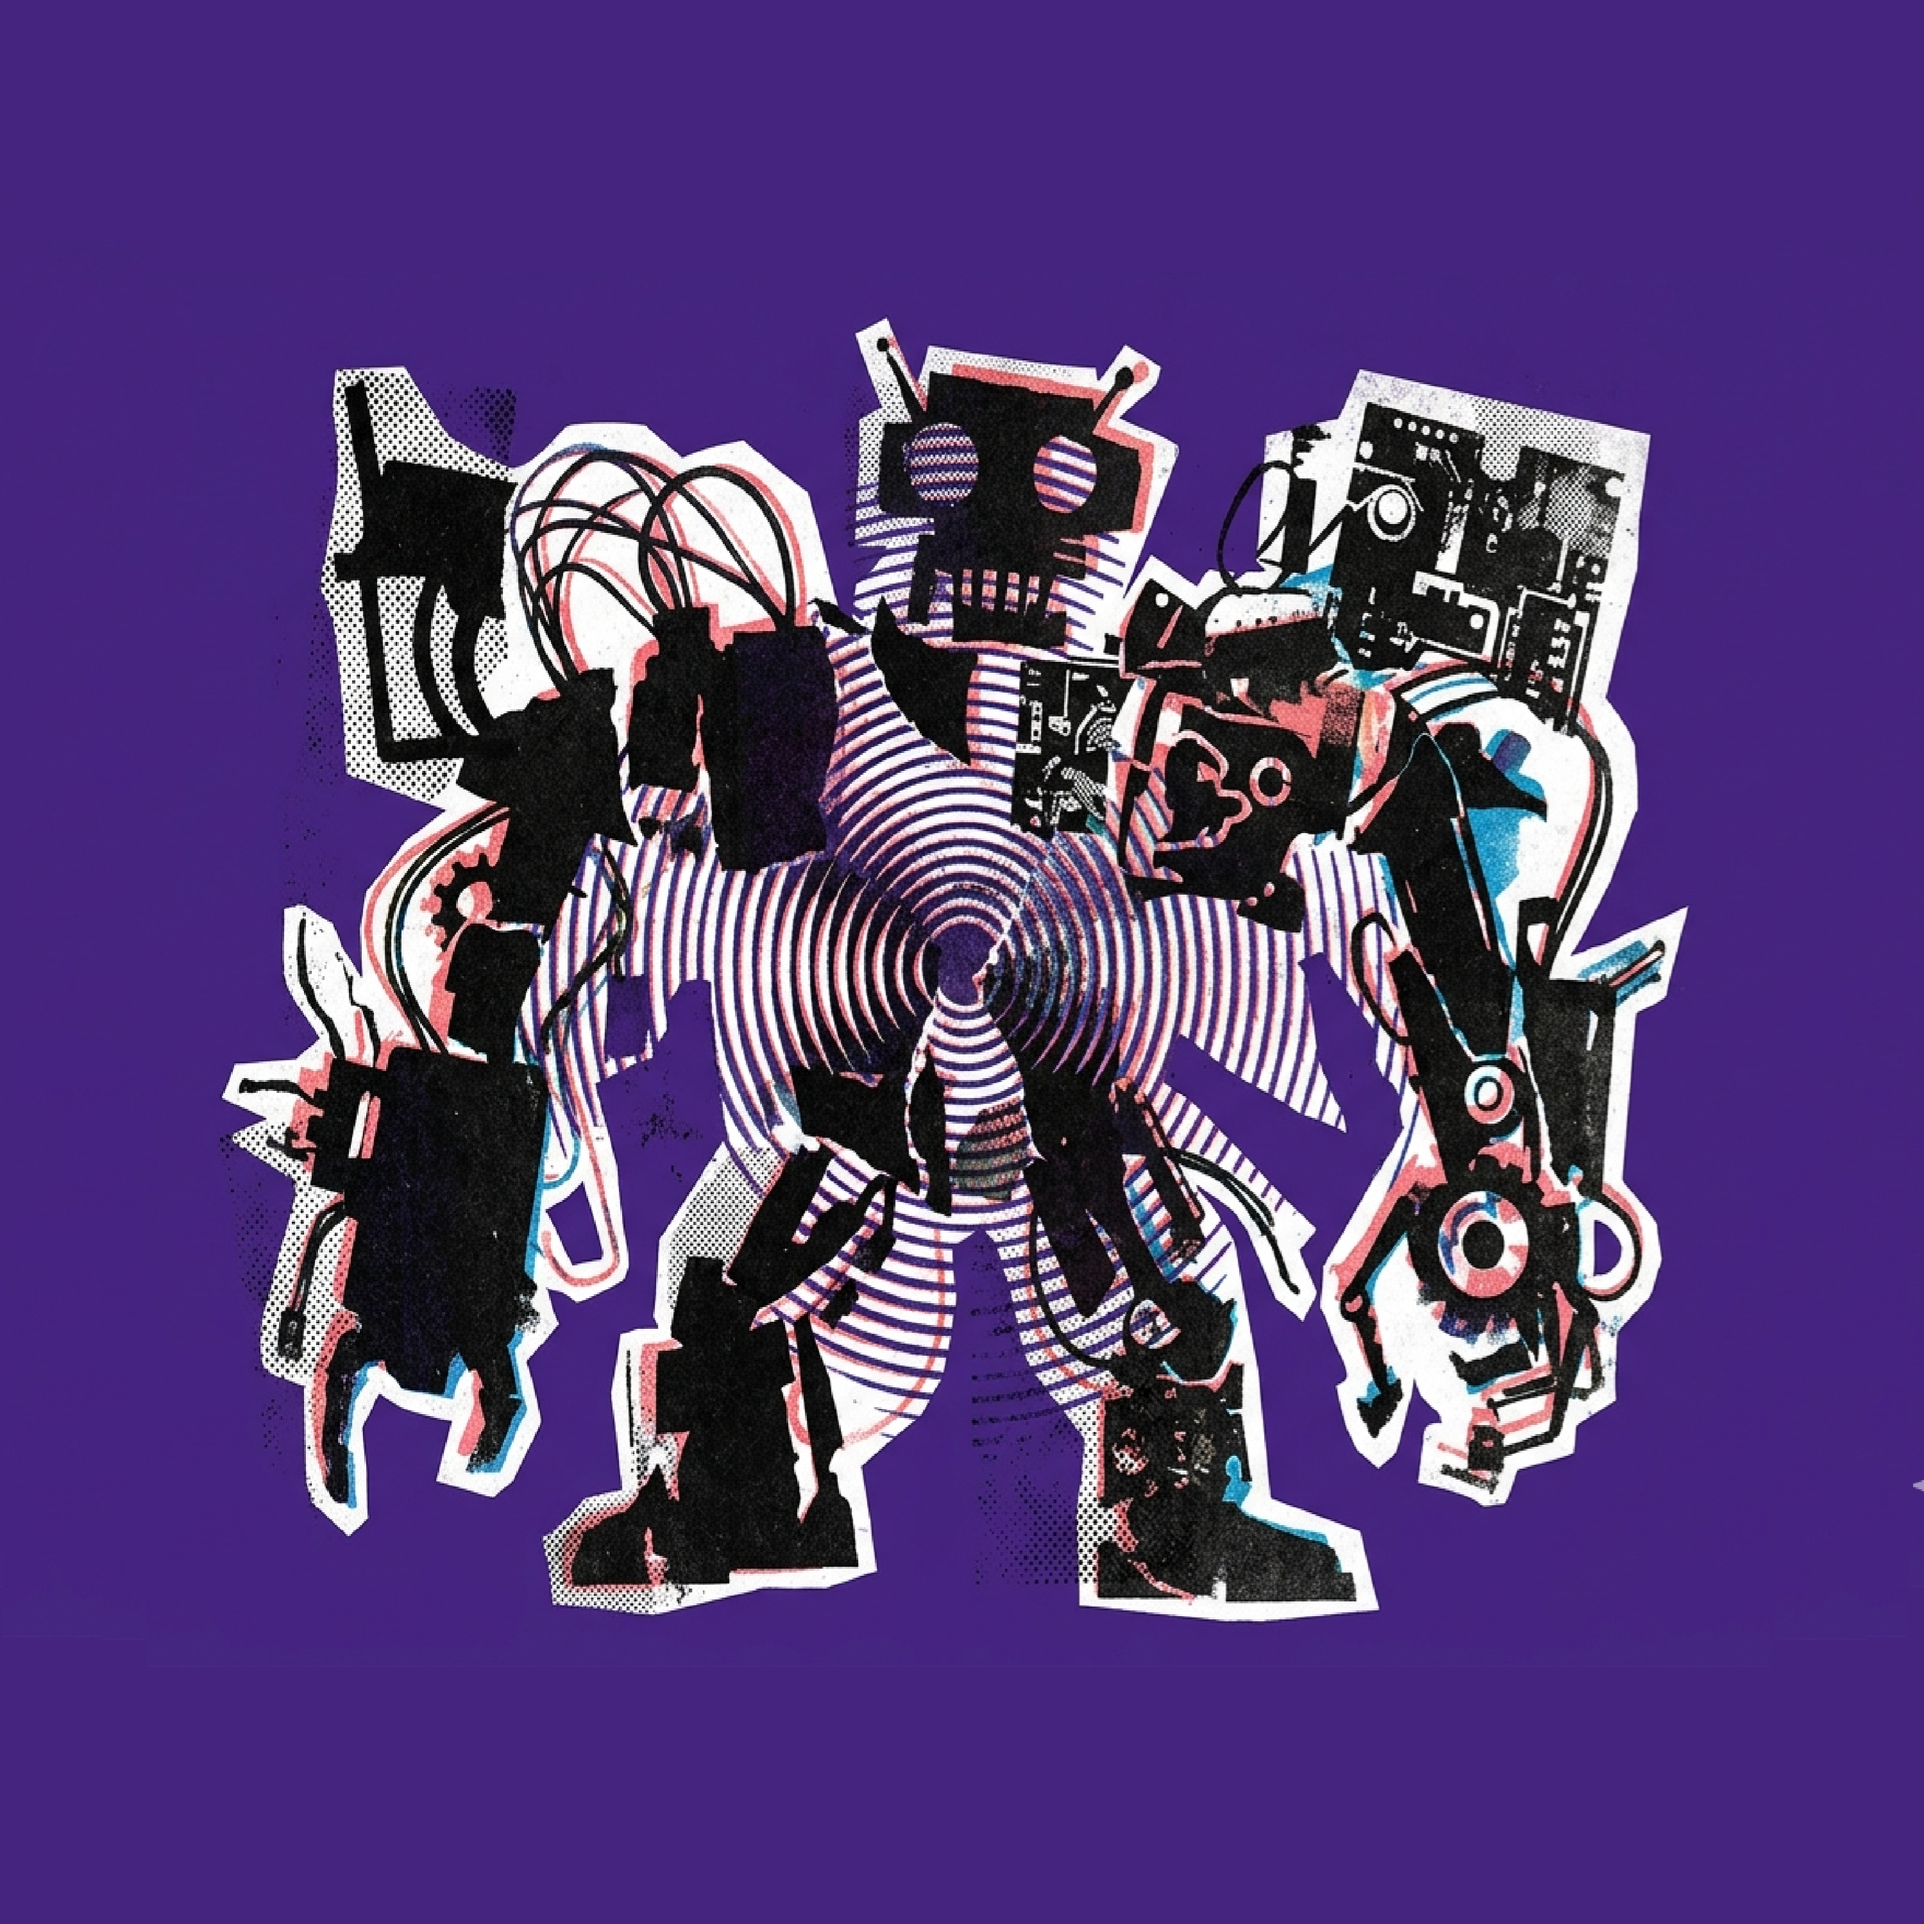
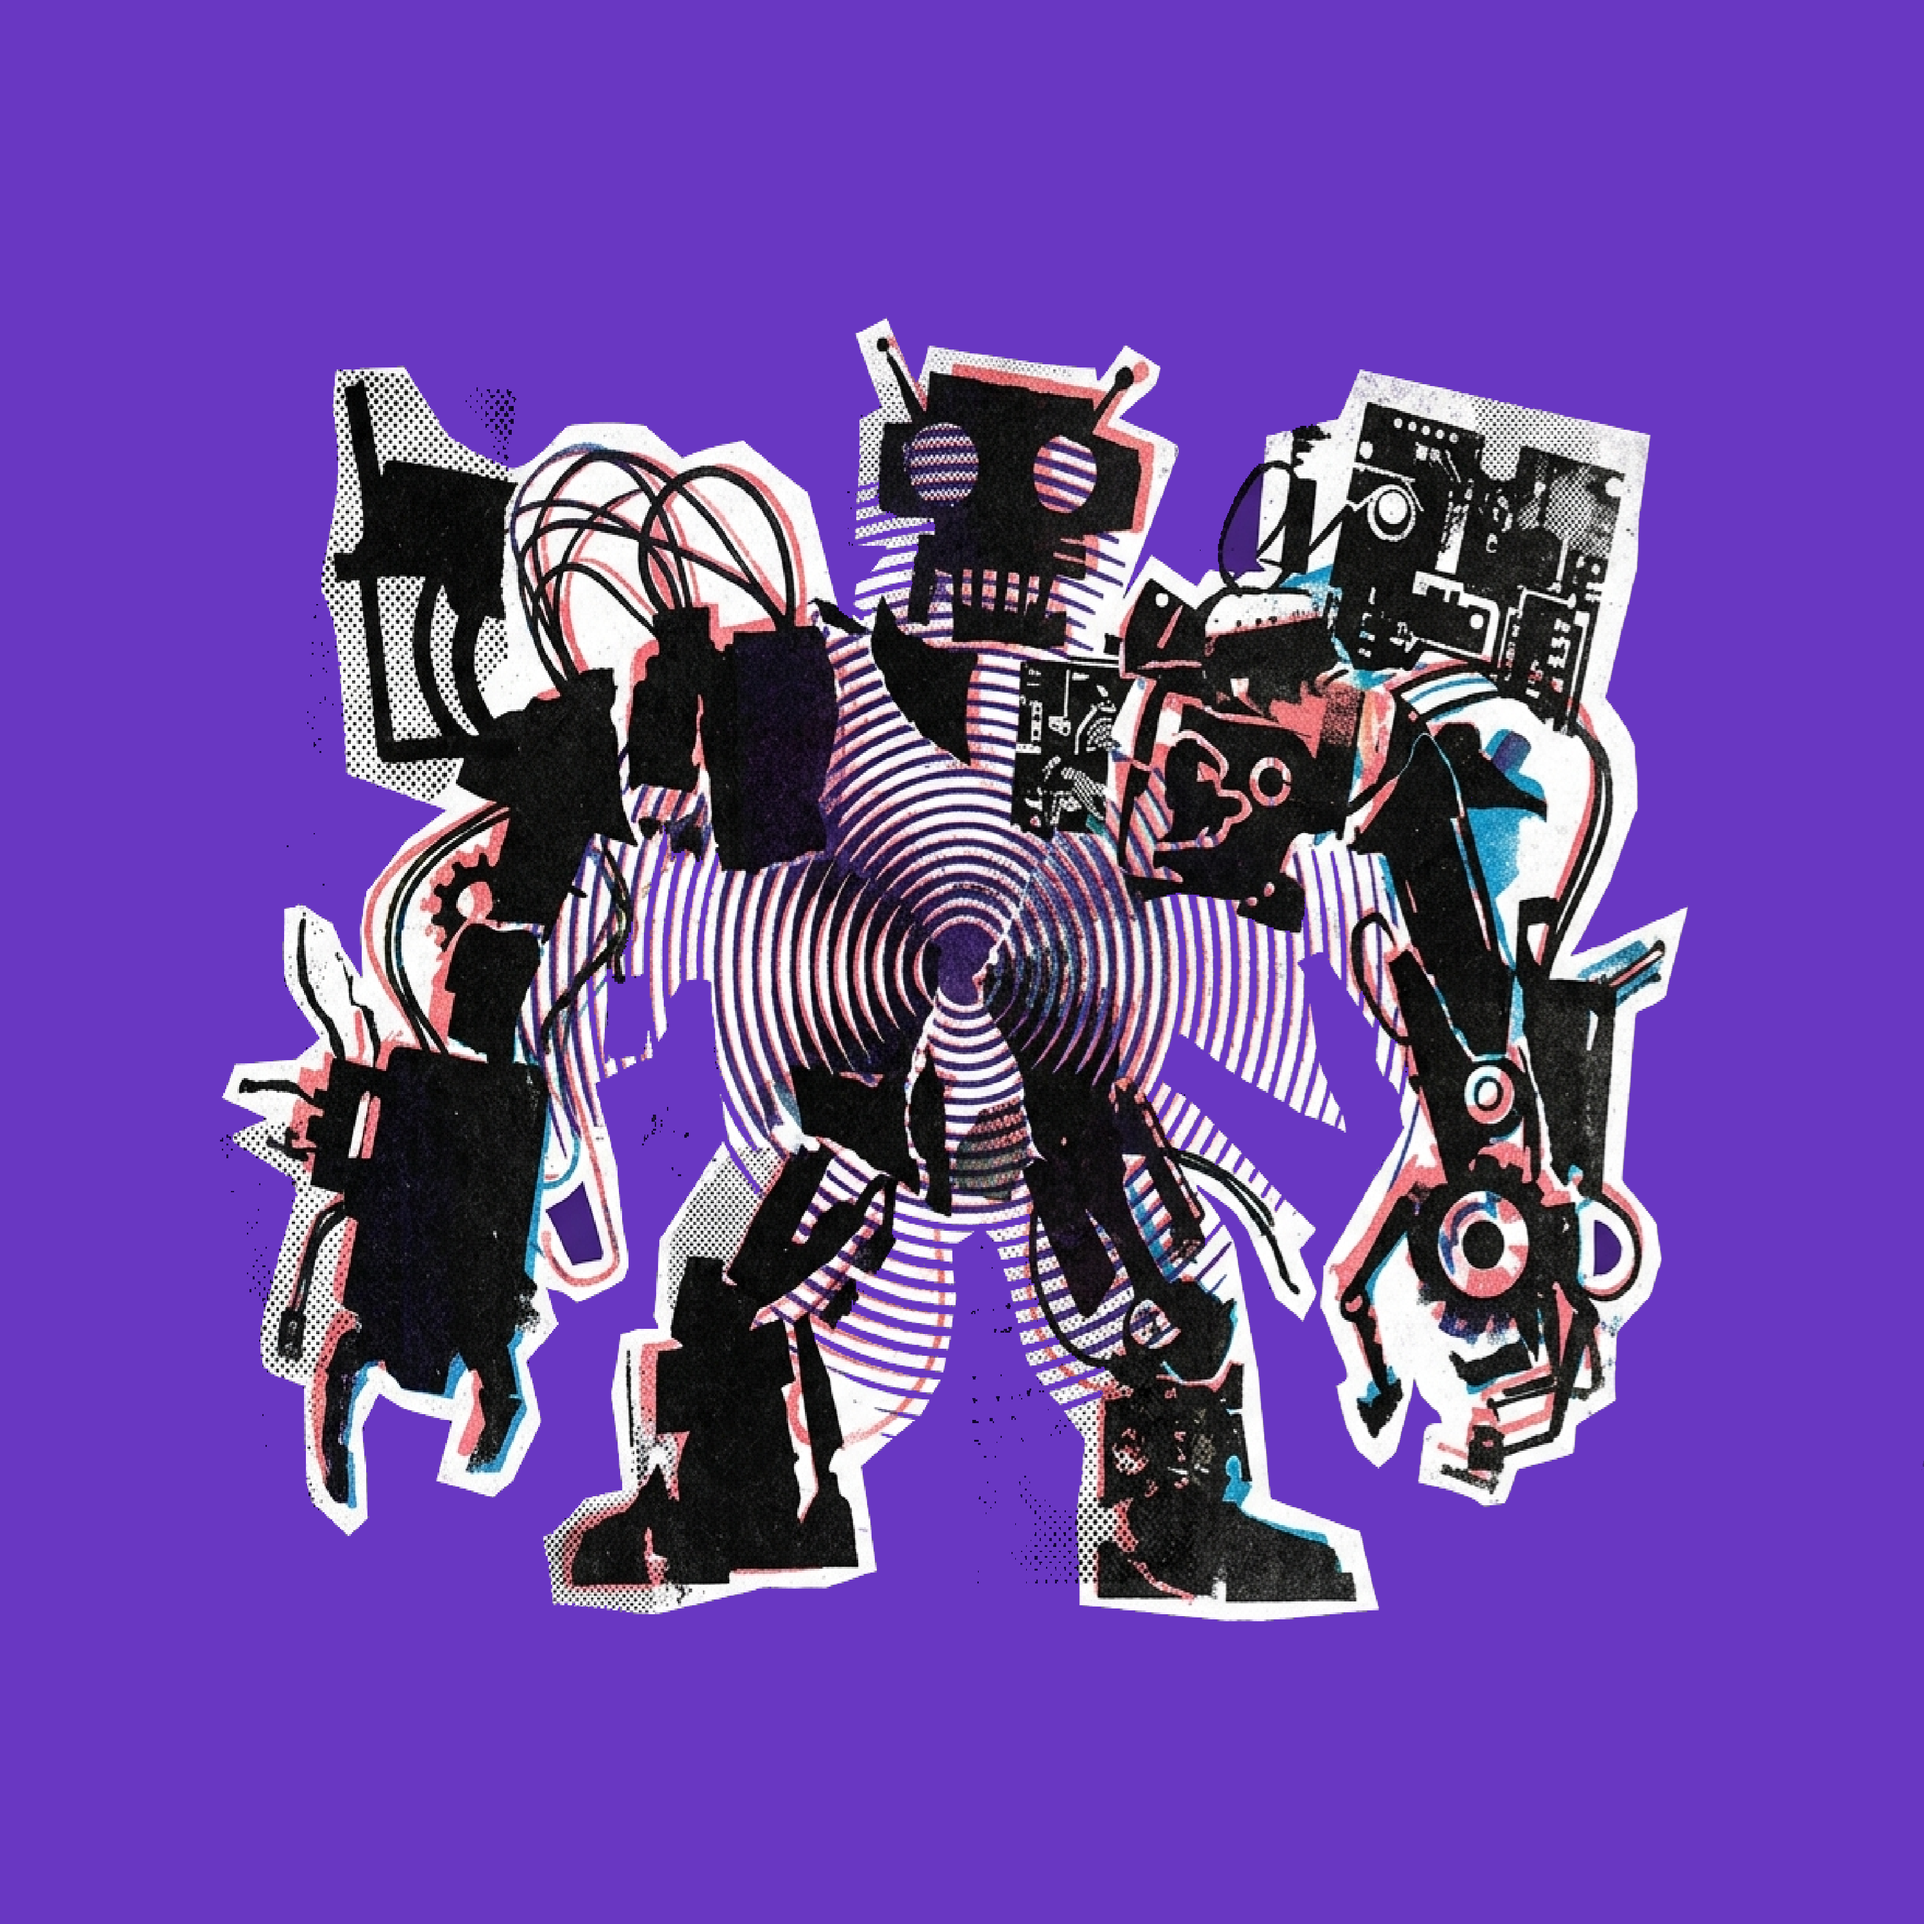
update the bot photo, add the readme & fix api

diff --git a/src/api/__main__.py b/src/api/__main__.py
@@ -22,15 +22,15 @@ async def get_current_user_tg_id(api_key: str = Security(api_key_header)) -> int
     if cached_tg_id:
         return int(cached_tg_id)
 
-    session = await get_db_session()  # type: ignore
-    repository = UserRepository(session)
-    user = await repository.get_by_api_key(api_key)
+    async with get_db_session() as session:  # type: ignore
+        repository = UserRepository(session)
+        user = await repository.get_by_api_key(api_key)
 
-    if not user:
-        raise HTTPException(status_code=401, detail="Invalid API Key")
+        if not user:
+            raise HTTPException(status_code=401, detail="Invalid API Key")
 
-    cache.set_telegram_id_by_api_key(api_key, user.telegram_id)  # type: ignore
-    return user.telegram_id  # type: ignore
+        cache.set_telegram_id_by_api_key(api_key, user.telegram_id)  # type: ignore
+        return user.telegram_id  # type: ignore
 
 
 @app.post("/")

diff --git a/README.md b/README.md
@@ -1,0 +1,136 @@
+# 🖥 Hardware Pulse
+
+![Python](https://img.shields.io/badge/Python-3776AB?style=for-the-badge&logo=python&logoColor=white)
+![FastAPI](https://img.shields.io/badge/FastAPI-009688?style=for-the-badge&logo=fastapi&logoColor=white)
+![Aiogram](https://img.shields.io/badge/Aiogram-2CA5E0?style=for-the-badge&logo=telegram&logoColor=white)
+![PostgreSQL](https://img.shields.io/badge/PostgreSQL-316192?style=for-the-badge&logo=postgresql&logoColor=white)
+![Redis](https://img.shields.io/badge/Redis-DC382D?style=for-the-badge&logo=redis&logoColor=white)
+![SQLAlchemy](https://img.shields.io/badge/SQLAlchemy-D71F00?style=for-the-badge&logo=sqlalchemy&logoColor=white)
+![Alembic](https://img.shields.io/badge/Alembic-00A98F?style=for-the-badge&logo=alembic&logoColor=white)
+![Docker](https://img.shields.io/badge/Docker-2496ED?style=for-the-badge&logo=docker&logoColor=white)
+![Poetry](https://img.shields.io/badge/Poetry-60A5FA?style=for-the-badge&logo=poetry&logoColor=white)
+![Pytest](https://img.shields.io/badge/Pytest-0A9EDC?style=for-the-badge&logo=pytest&logoColor=white)
+![Ruff](https://img.shields.io/badge/Ruff-FCC21B?style=for-the-badge&logo=ruff&logoColor=black)
+![Mypy](https://img.shields.io/badge/mypy-checked-1f425f?style=for-the-badge)
+
+## 📌 Описание
+
+**Hardware Pulse** — это система для мониторинга состояния компьютеров и серверов через Telegram. 
+
+Проект состоит из клиентского демона для сбора телеметрии, веб-API для приема метрик от множества устройств и Telegram-бота для просмотра статистики в реальном времени.
+
+## 📊 Статистика и качество
+
+🧪 Покрытие кода тестами: **46%**
+
+🛠 **Качество кода:** проект проходит строгую проверку **Ruff** (линтинг/форматирование) и **Mypy** (статическая типизация)
+
+🔄 **CI/CD:** Автоматическое тестирование и проверка типов при каждом Push (GitHub Actions)
+
+## 🧠 Компоненты системы
+
+- 🕵♂ **Daemon (Клиент):** Легковесный скрипт на целевой машине. Собирает метрики (CPU, RAM, диски, сеть, температура) и отправляет их по HTTP.
+- ⚙ **API (Сервер):** Принимает запросы на FastAPI, валидирует данные через Pydantic и проверяет API-ключи.
+- 🗄 **БД и Кэш (Сервер):** PostgreSQL для хранения пользователей (миграции Alembic) + Redis для кэширования метрик и сессий авторизации.
+- 🤖 **Telegram Bot (Сервер):** Асинхронный интерфейс на aiogram 3 для управления и вывода статистики.
+
+## 🎯 Возможности
+- 📊 Сбор метрик: нагрузка на ядра CPU, использование RAM и Swap, заполненность дисков, сетевой трафик.
+- 🌡 Кроссплатформенный мониторинг температуры (включая Linux и Windows WMI).
+- 🔑 Многопользовательский режим: генерация уникальных криптографических API-ключей для клиентов.
+- 🛡 Защита API-эндпоинтов зависимостями авторизации (`Depends`).
+- 🔄 Автоматическое применение миграций базы данных при старте серверной части.
+
+## 📋 Требования
+
+- 🔌 **Клиент:** Python 3.14+ (для работы демона), Libre Hardware Monitor (для Windows)
+- 🎛 **Сервер:** Docker & Docker Compose, Telegram Bot Token (от [@BotFather](https://t.me/BotFather))
+
+## ⚙ Переменные окружения (`.env`)
+
+Создайте файл `.env` в корне проекта по примеру ниже:
+
+```env
+# Daemon
+DAEMON_API_HOST="http://<ваш_ip>:8000/metrics"
+DAEMON_API_KEY="ваш_сгенерированный_ключ"
+
+# API
+API_HOST="0.0.0.0"
+API_PORT=8000
+
+# Telegram bot
+BOT_TOKEN="your_telegram_bot_token"
+BOT_PROXY=
+BOT_VLESS_PROXY=
+
+# Postgres
+DB_HOST="hw-pulse-postgres"
+DB_PORT=5432
+DB_NAME="hw-pulse-db"
+DB_USER="postgres"
+DB_PASSWORD="123"
+```
+
+## 🚀 Запуск проекта
+### 1. Серверная часть<br>
+Запускается на сервере (Raspberry Pi, VPS) для обслуживания клиентов:
+
+```Bash
+git clone https://github.com/ksredkin/hw-pulse.git
+cd hw-pulse
+# Настройте .env файл
+docker compose up --build -d
+```
+
+### 2. Клиентская часть (Daemon)
+Запускается на машине, за которой необходимо следить:
+
+1. Напишите боту команду /connect, чтобы зарегистрироваться и получить свой API_KEY.
+2. Впишите полученный ключ и адрес сервера в ваш локальный файл .env.
+
+**🖥 Дополнительно для Windows (Мониторинг температуры):**
+Для корректного сбора температуры процессора на Windows требуется утилита Libre Hardware Monitor:
+
+Скачайте и запустите [Libre Hardware Monitor](https://github.com/LibreHardwareMonitor/LibreHardwareMonitor/releases/download/v0.9.6/LibreHardwareMonitor.zip).
+
+В верхнем меню программы включите следующие опции:
+
+- Options ➔ Run On Windows Startup (автозапуск при старте ОС)
+
+- Options ➔ Minimize To Tray (скрывать в трей при закрытии)
+
+- Options ➔ Start Minimized (запускать сразу свернутым)
+
+- Options ➔ Remote Web Server ➔ Run (активировать локальный веб-сервер)
+
+После настройки запустите демона:
+
+```Bash
+poetry install --only main
+poetry run python -m src.daemon
+```
+
+## 📌 Пример ответа бота
+
+```Plaintext
+🖥 Статус системы:
+
+🔥 CPU: 34.5% (Ядра: 6/12)
+🌡 Температура: 45.2°C
+⚡ Частота: 3.8 GHz
+
+🧠 Оперативная память (RAM):
+Использовано: 45% (7.2 GB / 16.0 GB)
+Доступно: 8.8 GB
+
+💽 Диски:
+C:\ - Занято: 70% (Свободно: 150 GB)
+D:\ - Занято: 42% (Свободно: 580 GB)
+
+🌐 Сеть:
+Скачано: 1245 MB | Отправлено: 85 MB
+```
+
+## ⭐ Примечание
+Если проект оказался полезным — можно поставить ⭐ на GitHub! 🚀
